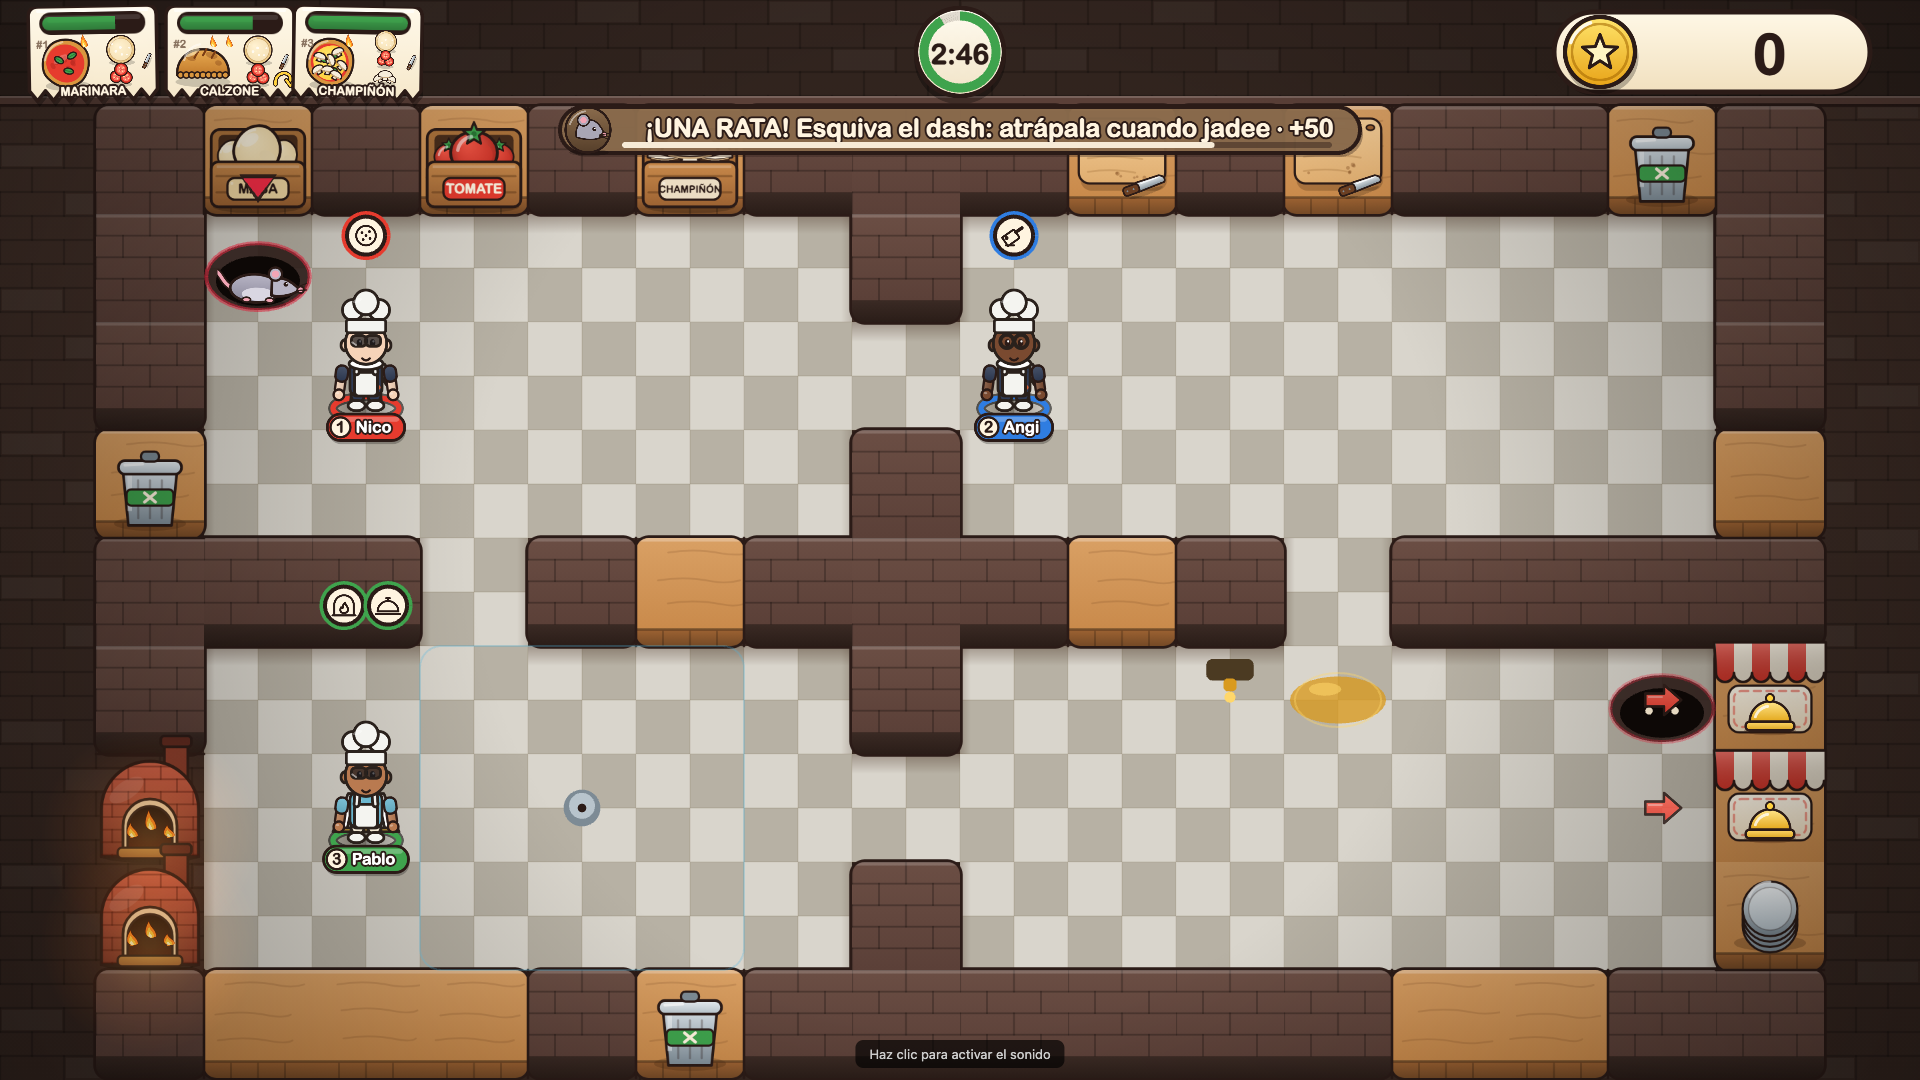
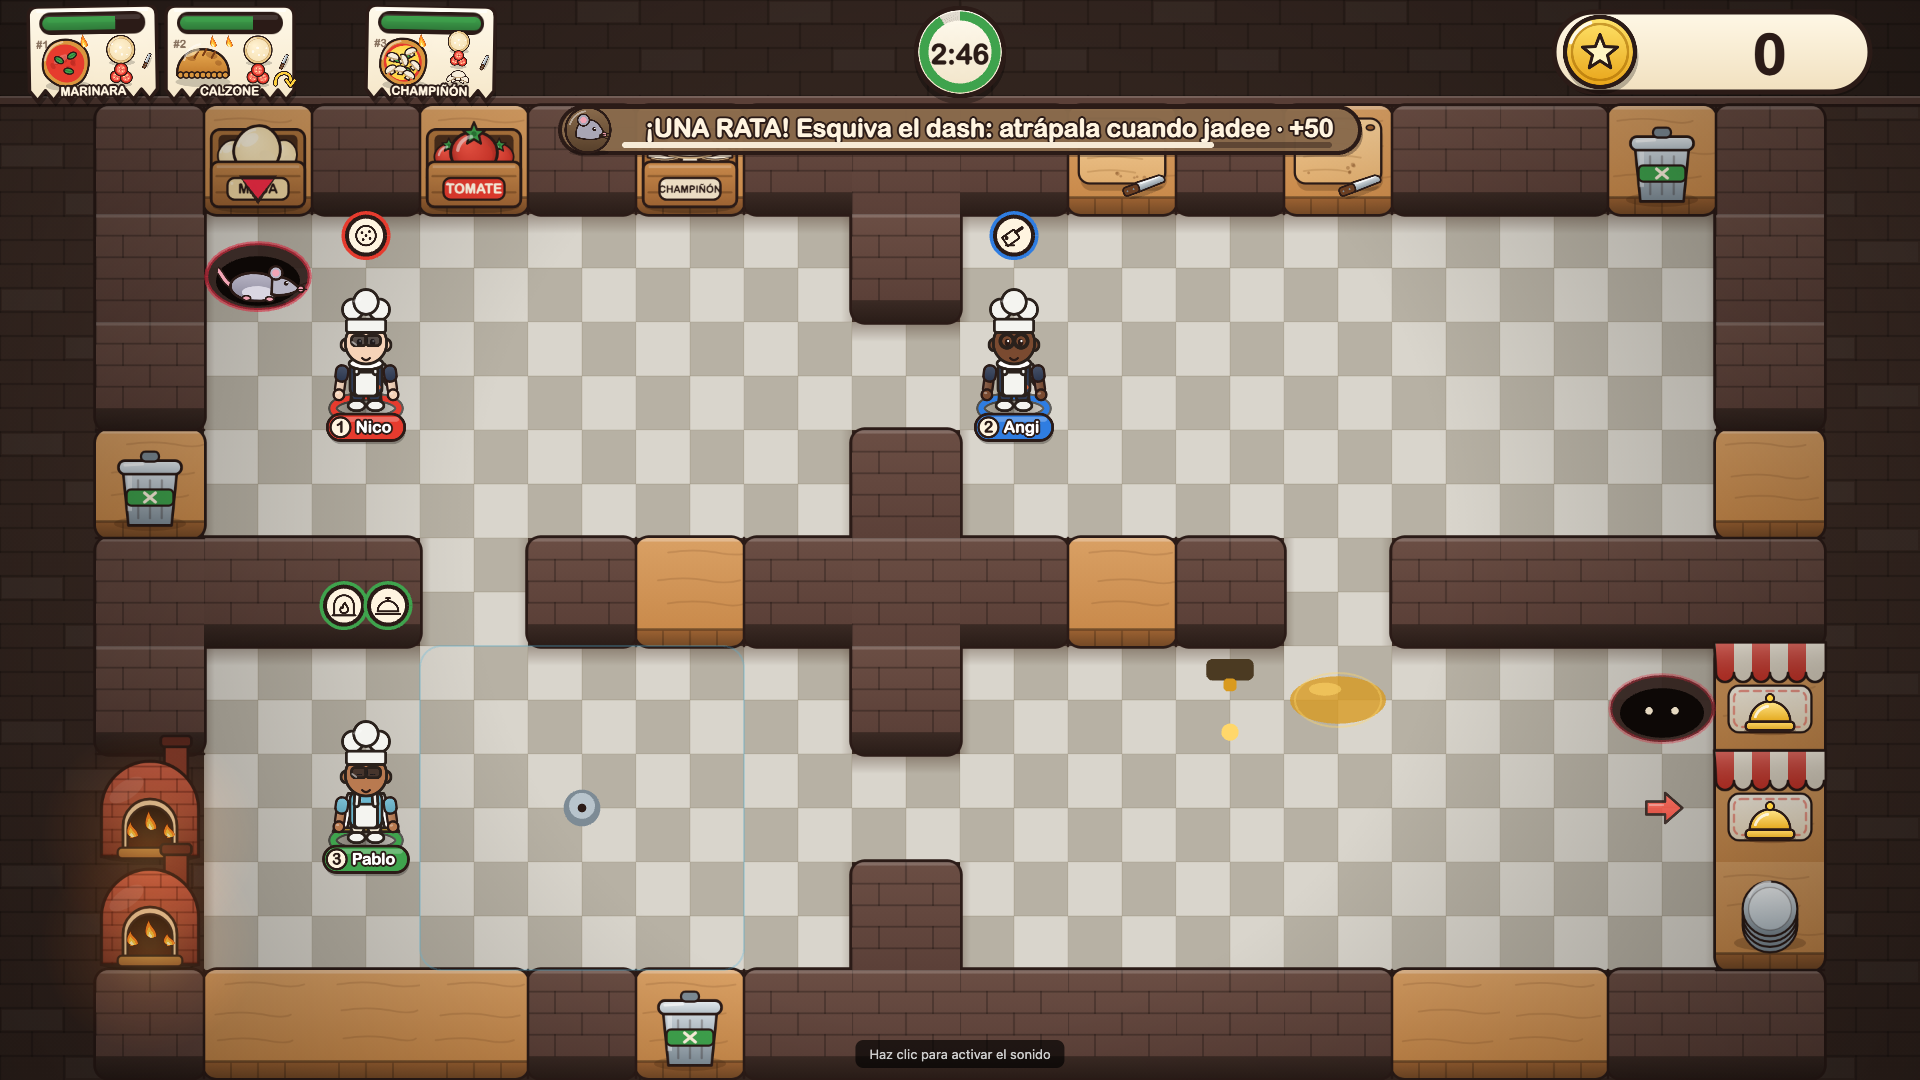
hazardsV3: stack the name plates of two chefs on one raft tile; no hatch arrow over a rat cave (map 15); regrab of the hz3-31/hz3-15 screens
Claude-Session: https://claude.ai/code/session_01Djd76mDCFx5wKHiv7BtgJo

diff --git a/games/pizzas/screen/art/stations.ts b/games/pizzas/screen/art/stations.ts
@@ -101,19 +101,22 @@ export class StationViews {
     else if (st.kind === 'window') {
       v.bell = place(s, 'bell', cx, cy + TILE * 0.26, 0.9).setDepth(d - 2);
       const dir = this.openSide(st);
-      v.arrow = place(s, 'arrow', cx + dir[0] * TILE, cy + dir[1] * TILE, 0.8)
-        .setRotation(Math.atan2(-dir[1], -dir[0]))
-        .setAlpha(0.85)
-        .setDepth(2);
-      s.tweens.add({
-        targets: v.arrow,
-        x: v.arrow.x - dir[0] * TILE * 0.22,
-        y: v.arrow.y - dir[1] * TILE * 0.22,
-        duration: 520,
-        yoyo: true,
-        repeat: -1,
-        ease: 'sine.inOut',
-      });
+      if (dir) {
+        const arrow = place(s, 'arrow', cx + dir[0] * TILE, cy + dir[1] * TILE, 0.8)
+          .setRotation(Math.atan2(-dir[1], -dir[0]))
+          .setAlpha(0.85)
+          .setDepth(2);
+        v.arrow = arrow;
+        s.tweens.add({
+          targets: arrow,
+          x: arrow.x - dir[0] * TILE * 0.22,
+          y: arrow.y - dir[1] * TILE * 0.22,
+          duration: 520,
+          yoyo: true,
+          repeat: -1,
+          ease: 'sine.inOut',
+        });
+      }
     } else if (st.kind === 'dirty') {
       v.dirtyStack = this.stack(foodKey('tray_dirty'), cx, cy + TILE * 0.12, d);
       v.badge = makeText(s, cx + TILE * 0.3, cy - TILE * 0.3, '', { size: 30, color: C.cream, depth: 3000 });
@@ -167,15 +170,24 @@ export class StationViews {
     );
   }
 
-  private openSide(st: Station): [number, number] {
+  private isCave(x: number, y: number): boolean {
+    return !!this.game.caves?.at.some((c) => c[0] === x && c[1] === y);
+  }
+
+  /** The side of a window that is open floor (where the arrow points from); null when the only floor beside it is a rat cave (HAZARD_V3 map 15): the arrow would cover the hole. */
+  private openSide(st: Station): [number, number] | null {
+    let cave = false;
     for (const [dx, dy] of [
       [-1, 0],
       [1, 0],
       [0, -1],
       [0, 1],
     ] as const)
-      if (this.game.grid[st.ty + dy]?.[st.tx + dx]?.kind === 'floor') return [dx, dy];
-    return [0, 1];
+      if (this.game.grid[st.ty + dy]?.[st.tx + dx]?.kind === 'floor') {
+        if (!this.isCave(st.tx + dx, st.ty + dy)) return [dx, dy];
+        cave = true;
+      }
+    return cave ? null : [0, 1];
   }
 
   stationAt(idx: number) {

diff --git a/games/pizzas/screen/art/world.ts b/games/pizzas/screen/art/world.ts
@@ -278,6 +278,13 @@ export class World {
     const g = this.game;
     this.updateFinale(dtMs);
     const chop = new Map<number, 'chop' | 'stretch'>();
+    const sharing = new Map<number, number>(); // HAZARD_V3 raft: chefs share a tile, so their name plates stack (the second one lower)
+    for (const gp of [...g.players.values()].sort((a, b) => a.id - b.id)) {
+      const k = Math.floor(gp.y) * 16 + Math.floor(gp.x);
+      const n = g.flags?.mech.raft && !gp.ghost ? (sharing.get(k) ?? 0) : 0;
+      if (!gp.ghost) sharing.set(k, n + 1);
+      this.chefs.get(gp.id)?.setTagLift(n * 34);
+    }
     for (const gp of g.players.values()) {
       const info = this.players().get(gp.id);
       if (!info) continue;

diff --git a/platform/screen/src/art/chef/rig.ts b/platform/screen/src/art/chef/rig.ts
@@ -192,6 +192,10 @@ export class Chef {
       this.tag.setTexture(k);
     }
   }
+  /** Moves the name plate down by `dy` logical px (two chefs sharing one tile stack their plates instead of overlapping). */
+  setTagLift(dy: number) {
+    this.tag.y = ANCHORS.tagY + dy;
+  }
   celebrate() {
     this.happyT = 900;
     this.jumpT = 0;
